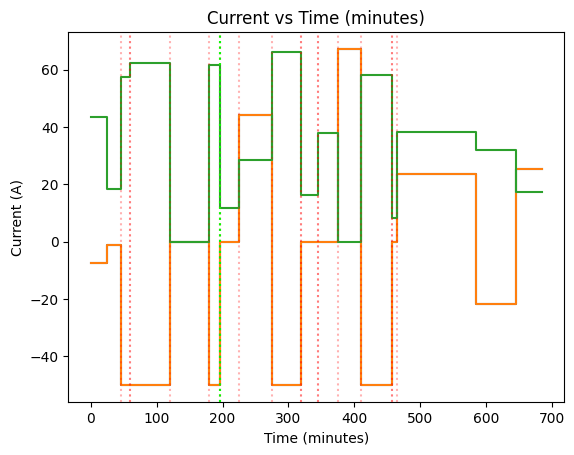
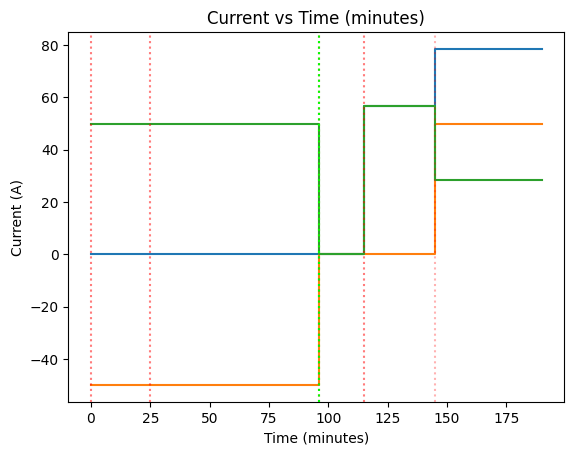
Implemented Kirchhoff's current law test

diff --git a/PySpice/result_checker.py b/PySpice/result_checker.py
@@ -9,6 +9,22 @@ def cross_check_result(analysis, component_object, result):
     load = result["load_result"]
     load_balancer = result["load_balancer"]
     
+    # --Error analysis---
+    total_mppt_output = result["summary"]["data"][0]["current"]["total_mppt_output_current"]
+    total_battery_input = result["summary"]["data"][0]["current"]["total_battery_input_current"]
+    total_load_current = 0.0
+    for each in load["data"]:
+        for key in each["current"]:
+            total_load_current += each["current"][key]
+            
+    if total_mppt_output - total_battery_input - total_load_current > EPSILON:
+        result["error"]["data"].append(f"Kirchhoff's Law violated. MPPT Output Current ({total_mppt_output} A) \
+does not equal Battery Input Current ({total_battery_input} A) + Load Current ({total_load_current} A)")
+    
+    result["error"]["array_count"] = len(result["error"]["data"])
+    
+    
+    # ---Warning analysis---
     # Check solar array power into mppt
     set_count = solar["array_count"]
     solar_data = solar["data"]
@@ -33,9 +49,9 @@ Total Input Power: {input_power:.2f} W, restricted to: {actual_voltage_output*ac
         result["warning"]["data"].append(f"Battery is overcharged by {excess_current} A")
         
     # Check battery discharge
-    for load in load["data"]:
-        voltage = float(list(load["voltage"].values())[0])
-        current = float(list(load["current"].values())[0])
+    for each in load["data"]:
+        voltage = float(list(each["voltage"].values())[0])
+        current = float(list(each["current"].values())[0])
         actual_power = voltage * current
 
         mppt_count = len(component_object.get("mppt", []))
@@ -44,7 +60,7 @@ Total Input Power: {input_power:.2f} W, restricted to: {actual_voltage_output*ac
             temp_eff_calculation += component_object["mppt"][i].get_efficiency()
         average_efficiency = temp_eff_calculation / mppt_count if mppt_count > 0 else 1.0
             
-        index = load["array_index"]
+        index = each["array_index"]
         power_rating = component_object["load"][index].power_rating() * average_efficiency
         throttle_setting = component_object["load"][index].throttle_setting()
         actual_throttle = actual_power / power_rating if power_rating > 0 else 0.0
@@ -54,8 +70,7 @@ Total Input Power: {input_power:.2f} W, restricted to: {actual_voltage_output*ac
             result["warning"]["data"].append(f"Battery array is being over-discharged. Motor {index} \
 has been restricted to {actual_throttle*100:.2f}% instead of {throttle_setting*100:.2f}% throttle level.")
         
-        
-    
+
     result["warning"]["array_count"] = len(result["warning"]["data"])
     return None
         

diff --git a/PySpice/simulation_over_time.py b/PySpice/simulation_over_time.py
@@ -66,7 +66,7 @@ def start_voyage(circuit_config_loc: str, voyage_config_loc: str, save_path: str
         # If battery is empty, set max discharge current to 0 to prevent further discharge
         if current_capacity_Amin + (battery_charge_current_A * duration_minutes) > battery_capacity_Amin:
             time_to_full = (battery_capacity_Amin - current_capacity_Amin) / battery_charge_current_A
-            print("Time to full battery (minutes):", time_to_full)
+            #print("Time to full battery (minutes):", time_to_full)
             
             if time_to_full > EPSILON:
                 # Run 2 simulations: to full, then rest of time with 0 charge current
@@ -90,7 +90,7 @@ def start_voyage(circuit_config_loc: str, voyage_config_loc: str, save_path: str
         
         elif current_capacity_Amin + (battery_charge_current_A * duration_minutes) < 0:
             time_to_empty = abs(current_capacity_Amin / battery_charge_current_A)
-            print("Time to empty battery (minutes):", time_to_empty)
+            #print("Time to empty battery (minutes):", time_to_empty)
             
             if time_to_empty > EPSILON:
                 # Run 2 simulations: to empty, then rest of time with 0 discharge current
@@ -118,10 +118,11 @@ def start_voyage(circuit_config_loc: str, voyage_config_loc: str, save_path: str
             current_soc = current_capacity_Amin / battery_capacity_Amin
             battery_capacity_list.append(current_capacity_Amin)
             step_up_prev(results, time_range_min, battery_capacity_list)
-
+    
+    #print(json.dumps(results, indent=4))
     generate_graph(results=results, x_axis=time_range_min, x_label="Time (minutes)",
-                   voltage_display_choice=['load_result', "mppt_result", 'battery_result'],
-                   current_display_choice=['battery_result', 'load_result'],
+                   voltage_display_choice=['load_result', "mppt_result"],
+                   current_display_choice=['summary', 'load_result'],
                    power_display_choice=['panel_result', 'load_result'],
                    battery_capacity=battery_capacity_list,
                    save_path=save_path)    
@@ -140,7 +141,6 @@ def step_up_prev(results: list, time_range_min: list, battery_capacity_list: lis
             data[0]["voltage"] = prev['battery_result']["data"][0]["voltage"]
      """
     results.append(copy)
-    
     
     
     time_range_min.insert(-1, time_range_min[-2])

diff --git a/PySpice/sweep_graph_generation.py b/PySpice/sweep_graph_generation.py
@@ -96,7 +96,6 @@ def generate_graph(results: list, x_axis: list, x_label: str = "",
         
         for category in current_display_choice:
             currents = extract_traces(results, category, 'current')
-            
             for label, values in currents.items():
                 ax.plot(x_axis, values, marker=MARKER_STYLE, markersize=MARKER_SIZE,
                        label=f"{category} - {label}",
@@ -236,7 +235,7 @@ def extract_traces(results: list, category: str, data_type: str) -> Dict[str, Li
                     # Initialize trace if needed
                     if trace_name not in traces:
                         traces[trace_name] = []
-                    
+                        
                     # Append value
                     traces[trace_name].append(value)
     

diff --git a/PySpice/components/battery_array.py b/PySpice/components/battery_array.py
@@ -7,11 +7,11 @@ class Battery_Array:
         self.BATTERY_IN_SERIES = kwargs.get("battery_in_series")
         
         self.SOC = kwargs.get("current_soc", 1.0)
-        print("Initial SOC:", self.SOC)
         if kwargs.get("min_voltage") is not None and kwargs.get("max_voltage") is not None:
             self.BATTERY_VOLTAGE = self.__estimate_battery_voltage(self.SOC, kwargs.get("min_voltage"), kwargs.get("max_voltage"))
         else:
             self.BATTERY_VOLTAGE = kwargs.get("battery_voltage")
+        print("Estimated Battery Voltage:", self.BATTERY_VOLTAGE, "SOC:", self.SOC)
             
         self.BATTERY_MAX_CHARGE_CURRENT = kwargs.get("max_charge_current")
         self.BATTERY_MAX_DISCHARGE_CURRENT = kwargs.get("max_discharge_current")

diff --git a/PySpice/components/load.py b/PySpice/components/load.py
@@ -22,7 +22,6 @@ class Load:
         
         
         self.circuit.V(f"{self.load_name}", POWER_SOURCE, f"{self.load_name}", GROUNDING_RESISTANCE)
-        #self.circuit.R(f"{self.load_name}", f"{self.load_name}_negative", self.circuit.gnd, MOTOR_RESISTANCE)
         self.circuit.raw_spice += f"B{self.load_name} {self.load_name} 0 I = I(V{POWER_SOURCE_ID})<-{BATTERY_MAX_DISCHARGE_CURRENT} ? {MOTOR_CURRENT_DEMAND}+(I(V{POWER_SOURCE_ID})+{BATTERY_MAX_DISCHARGE_CURRENT})*{RAWSPICE_ITERATIONS} : {MOTOR_CURRENT_DEMAND}\n"
         
         self.components["load"].append(f"{self.load_name}")

diff --git a/Schemdraw/__main__.py b/Schemdraw/__main__.py
@@ -9,8 +9,8 @@ from configurations.constants import TERMINATING_DISTANCE
 drawing = schemdraw.Drawing()
 drawing.config(unit=2)  # default .length( units )
 
-drawing, (top, bottom) = draw_array(drawing=drawing, element=elm.Solar, \
-    terminateDist=TERMINATING_DISTANCE, series=20, parallel=2, isRight=True)
+drawing, (top, bottom) = draw_array(drawing=drawing, element=elm.Battery, \
+    terminateDist=TERMINATING_DISTANCE, series=2, parallel=2, isRight=True)
 
 
 solar_mppt_point = Point((bottom.end.x, bottom.end.y - TERMINATING_DISTANCE / 2))

diff --git a/PySpice/pyspice_simulator.py b/PySpice/pyspice_simulator.py
@@ -37,6 +37,7 @@ def begin_simulation(circuit, component_object, errors, pyspice_availablility=Fa
         for warning in result["warning"]["data"]:
             print(f"\t{warning}")
         print()
+    
     return analysis, result
 
 def __simulate__(circuit, meta_data, errors, NGSPICE_AVAILABLE):

diff --git a/PySpice/circuit_constructor.py b/PySpice/circuit_constructor.py
@@ -105,7 +105,6 @@ def build_circuit_from_json(circuit_config_loc: str, modifications: dict = {}):
     if SHOW_NETLIST:
         display_netlist(circuit)
 
-    
     return circuit, component_object, errors
 
 
